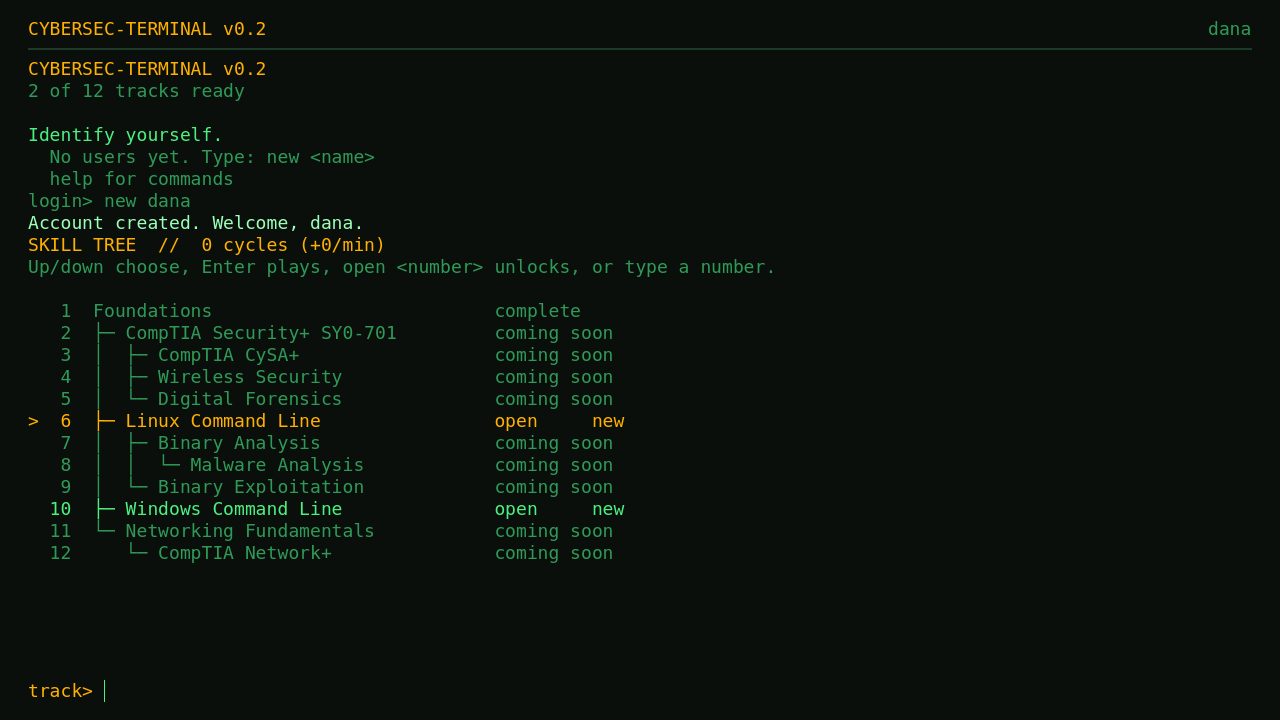
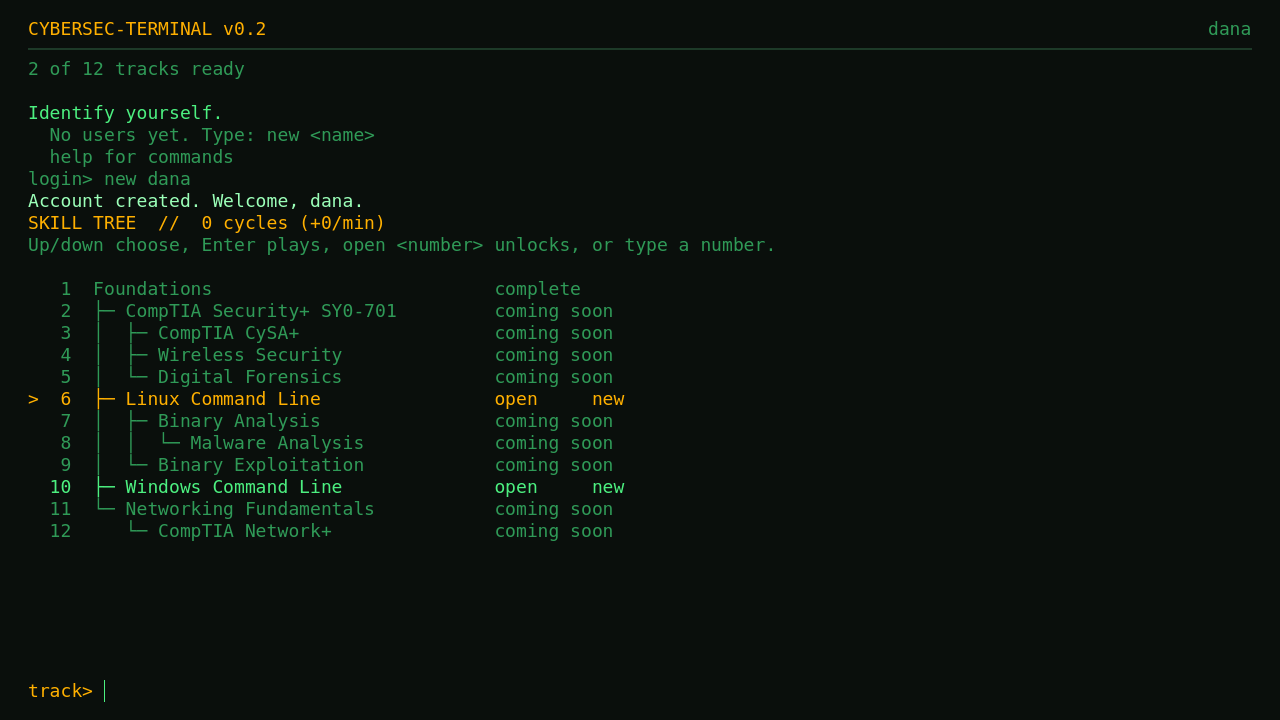
README screenshots: skill tree without the duplicate title, a Security+ question

diff --git a/README.md b/README.md
@@ -15,6 +15,11 @@ A question with simulated tool output, and the feedback after a wrong answer:
 ![A Linux question that shows a simulated nmap scan](docs/screenshots/terminal-question.png)
 ![Feedback after a wrong answer, with the explanation and when the concept comes back](docs/screenshots/feedback.png)
 
+Packs are plain folders of JSON, so the game can also play question banks you add yourself. This is a Security+ pack kept
+locally (it is not part of this repository), in the same terminal:
+
+![A Security+ question answered correctly, with XP and cycles awarded](docs/screenshots/secplus-question.png)
+
 ## What is in it
 
 Content comes in *packs*: a folder of JSON with the questions for one certification or skill. This repository ships:
